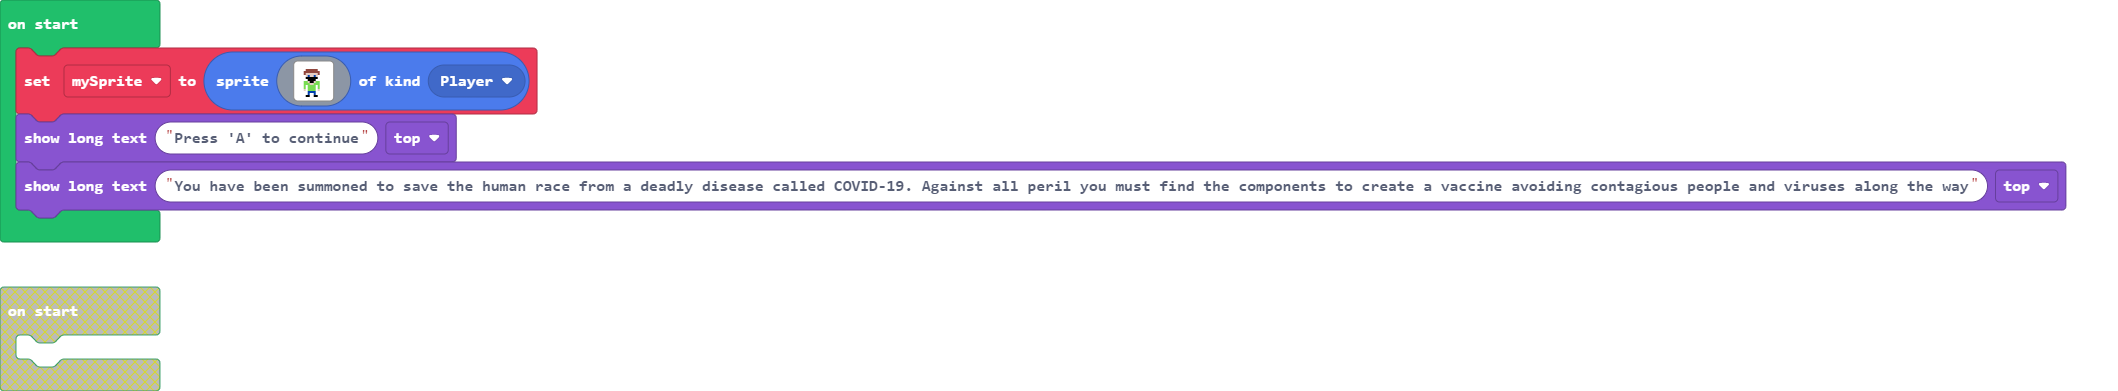
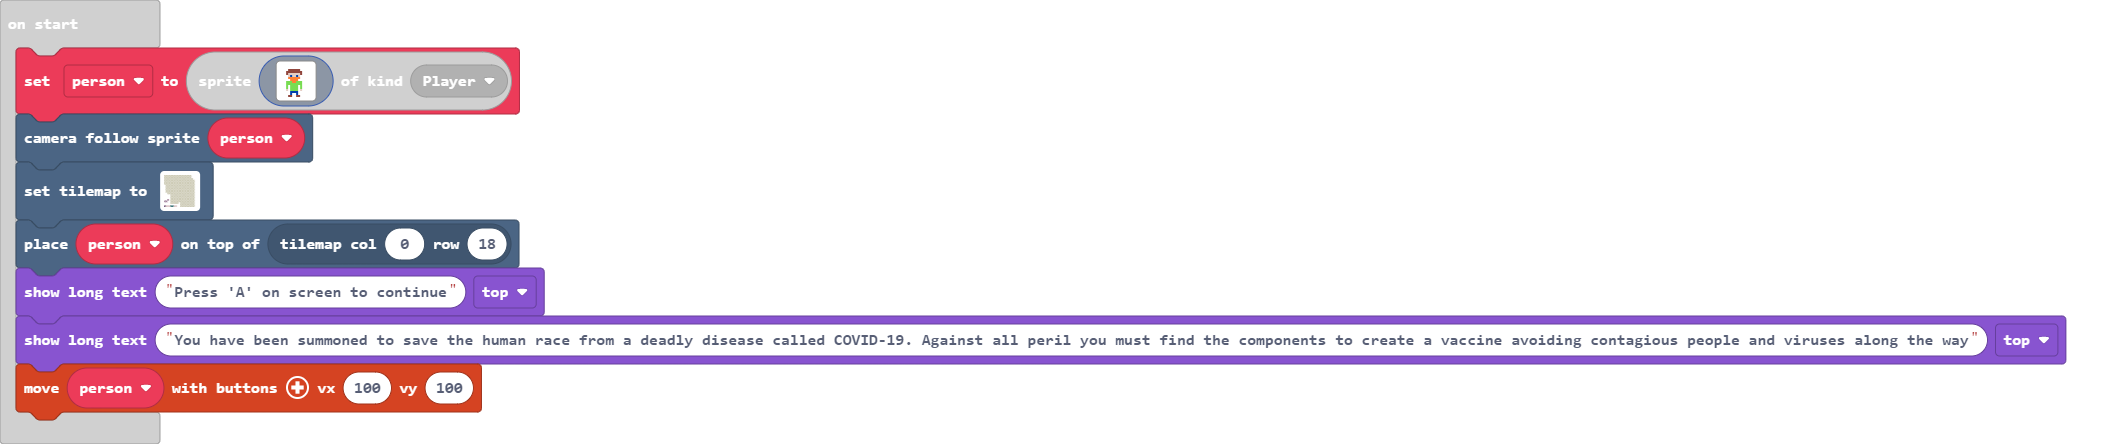
Placed person in right area

Changed region(s): [[0.0, 0.0, 0.9972, 1.0]]

diff --git a/main.ts b/main.ts
@@ -1,20 +1,45 @@
-let mySprite = sprites.create(img`
+let person = sprites.create(img`
     . . . . . . . . . . . . . . . . 
     . . . . . . . . . . . . . . . . 
     . . . . e e e e e e . . . . . . 
     . . . e e e e e e e e . . . . . 
     . . . e d d d d d d e . . . . . 
     . . . . d 8 d d 8 d . . . . . . 
-    . . . . f f f f f f . . . . . . 
-    . . . . . f f f f . . . . . . . 
-    . . . 7 7 d f f d 7 7 . . . . . 
-    . . . 7 7 7 d d 7 7 7 . . . . . 
+    . . . . 4 4 4 4 4 4 . . . . . . 
+    . . . . . 4 4 4 4 . . . . . . . 
+    . . . 7 7 7 4 4 7 7 7 . . . . . 
+    . . . 7 7 7 7 7 7 7 7 . . . . . 
     . . . 7 . 7 7 7 7 . 7 . . . . . 
     . . . 7 . 7 7 7 7 . 7 . . . . . 
     . . . d . 7 7 7 7 . d . . . . . 
     . . . . . 8 8 8 8 . . . . . . . 
     . . . . . 8 . . 8 . . . . . . . 
-    . . . . f f . . f f . . . . . . 
+    . . . . e e . . e e . . . . . . 
     `, SpriteKind.Player)
-game.showLongText("Press 'A' to continue", DialogLayout.Top)
+scene.cameraFollowSprite(person)
+tiles.setTilemap(tiles.createTilemap(hex`1400140004040404040404040404040404040404040000000404040404040404040404040404040404000000040404040404040404040404040404040404000004040404040404040404040404040404040404000404040404040404040404040404040404040400040404040404040404040404040404040404040000040404040404040404040404040404040404000004040404040404040404040404040404040400000404040404040404040404040404040404040000040404040404040404040404040404040404000004040404040404040404040404040404040400000004040404040404040404040404040404040000000000040404040404040404040404040404000000000004040404040404040404040404040400000000000404040404040404040404040404040000000100040404040404040404040404040404000101000004040404040404040404040404040400000000000404040404000404040404040404040000000000000000000000040404040404040404000503030302020303000004040404040404040400`, img`
+    ....................
+    ....................
+    ....................
+    ....................
+    ....................
+    ....................
+    ....................
+    ....................
+    ....................
+    ....................
+    ....................
+    ....................
+    ....................
+    ....................
+    ....................
+    ....................
+    ....................
+    ....................
+    ....................
+    ....................
+    `, [myTiles.transparency16,sprites.dungeon.floorDark0,sprites.builtin.crowd0,sprites.dungeon.floorLight4,sprites.castle.tilePath2,sprites.dungeon.darkGroundNorth], TileScale.Sixteen))
+tiles.placeOnTile(person, tiles.getTileLocation(0, 18))
+game.showLongText("Press 'A' on screen to continue", DialogLayout.Top)
 game.showLongText("You have been summoned to save the human race from a deadly disease called COVID-19. Against all peril you must find the components to create a vaccine avoiding contagious people and viruses along the way", DialogLayout.Top)
+controller.moveSprite(person)
